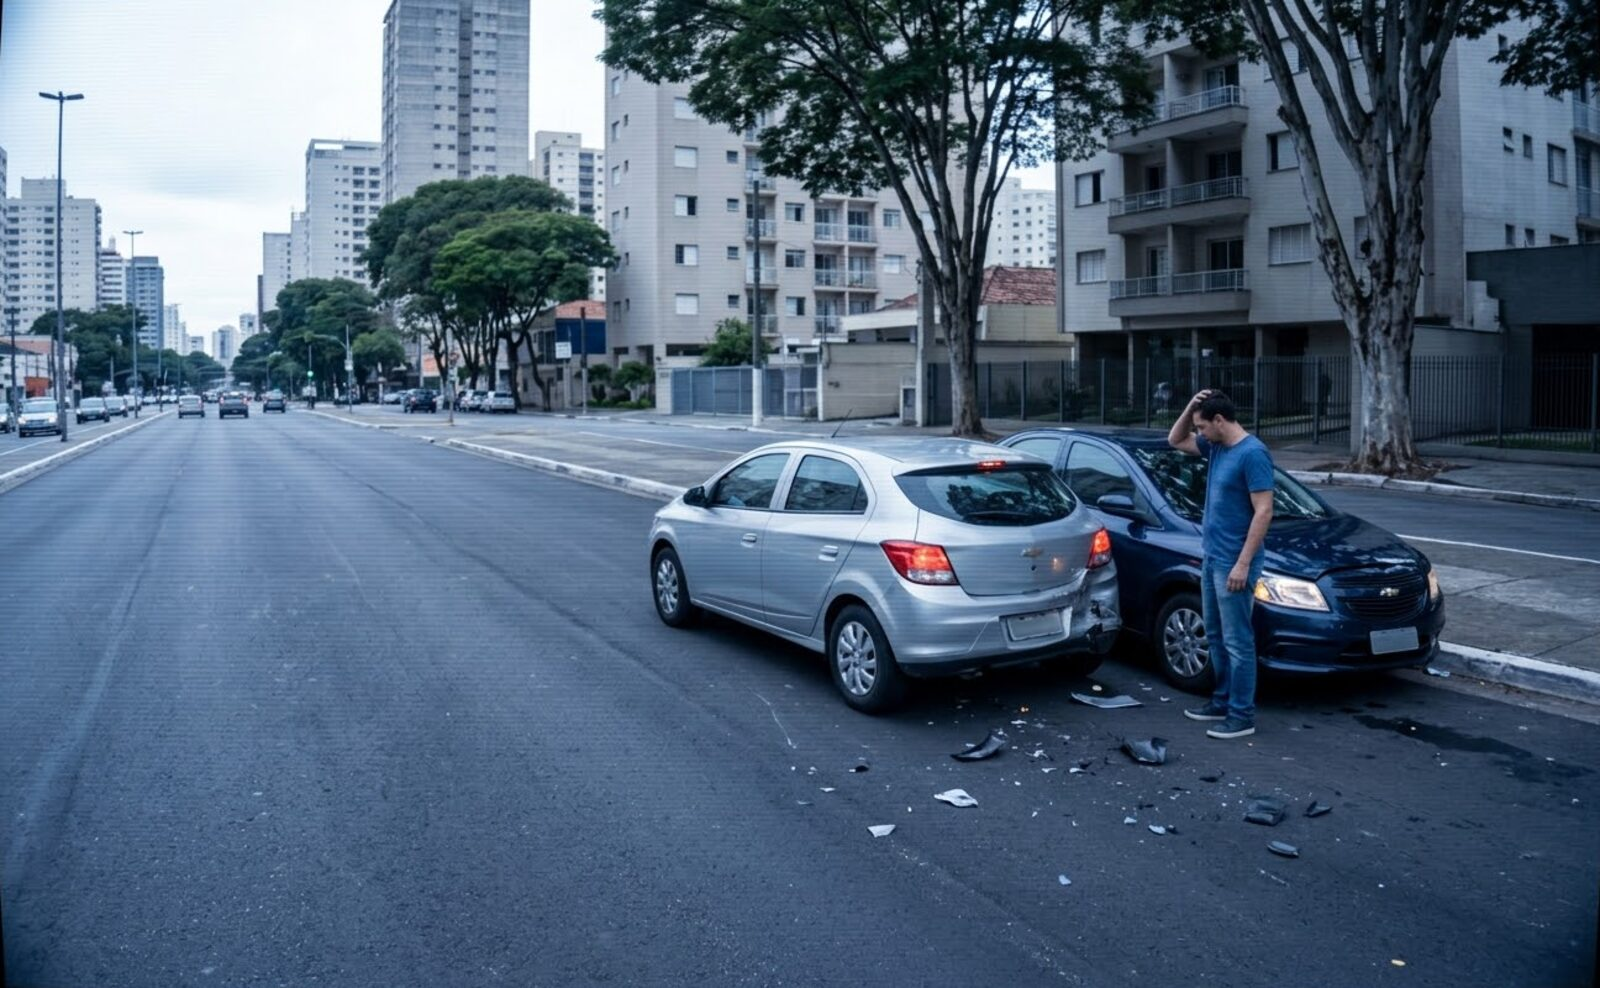
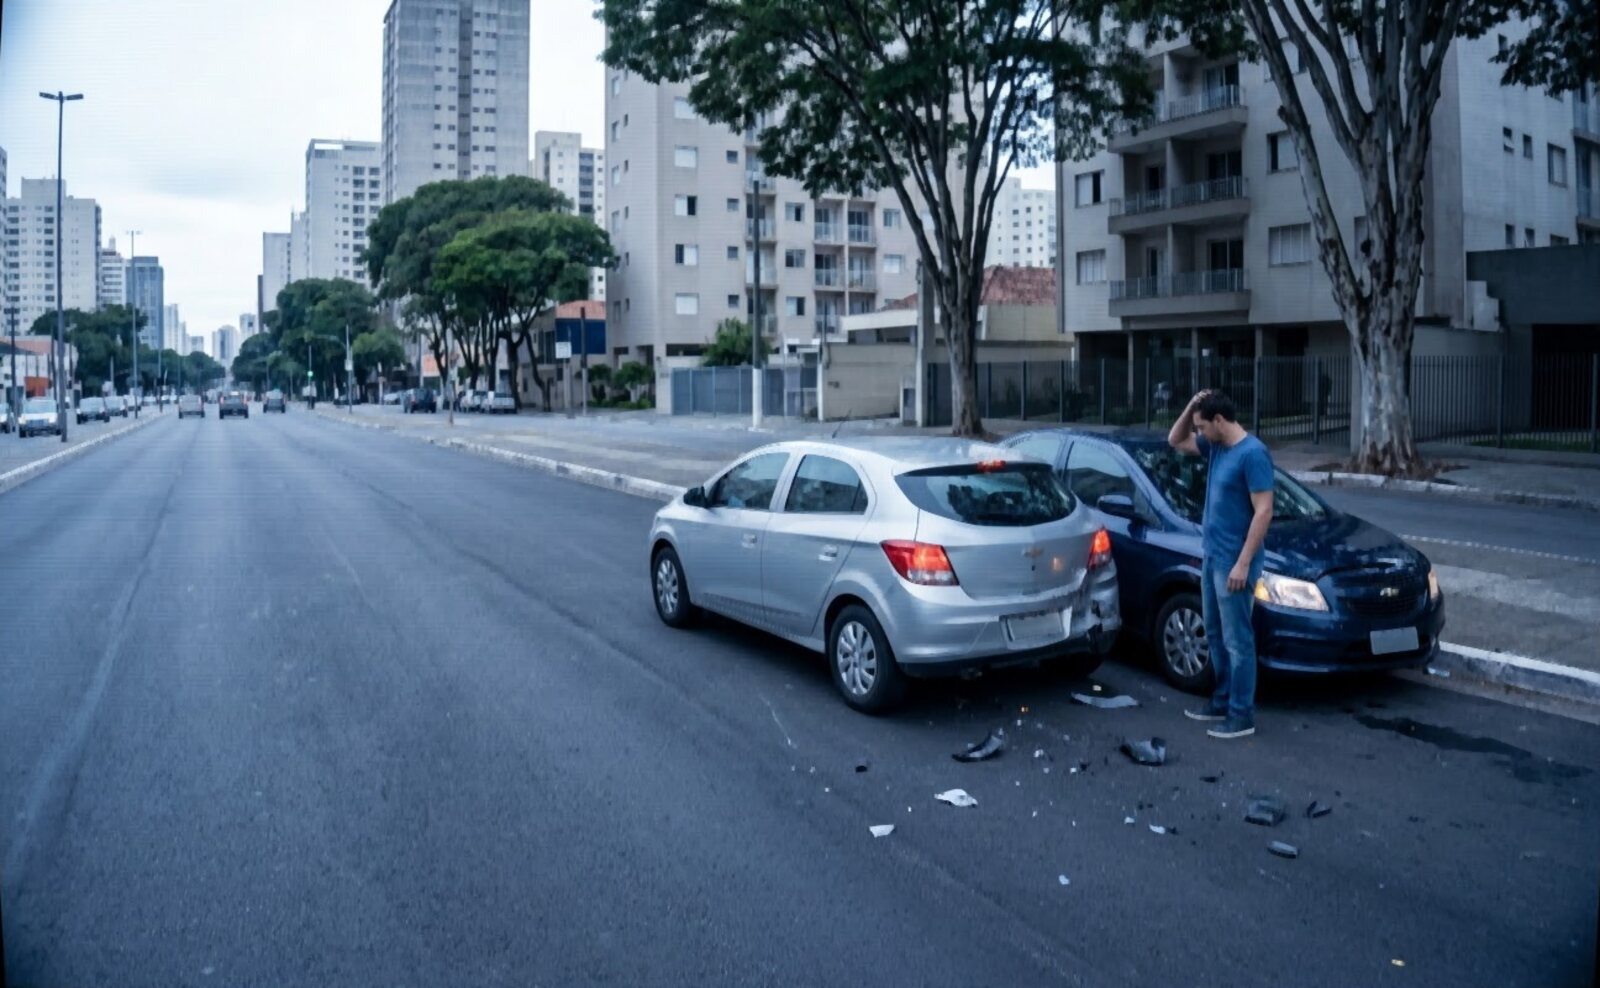
Sobre: sem REC, sem aviso de IA e sem aspecto de câmera nas fotos (#14)
Claude-Session: https://claude.ai/code/session_01NbZdAJxREaHUiLSeW6hUoJ

diff --git a/sobre.html b/sobre.html
@@ -99,10 +99,8 @@
     <div class="story-list">
       <article class="story story--cam" id="automovel" data-depois="img/sobre/automovel-batida-depois.jpg" data-par-alt="Os dois motoristas conversando com calma ao lado dos carros, com o guincho e a seguradora a caminho">
         <div class="story-media">
-          <img src="img/sobre/automovel-batida.jpg" alt="Câmera de rua em uma avenida de São Paulo registrando uma batida entre dois carros, com o motorista levando a mão à cabeça" width="1600" height="1000" loading="lazy" onerror="this.closest('.story').classList.add('no-photo')">
-          <span class="story-rec" aria-hidden="true"><i></i>REC 08:14 · São Paulo, SP</span>
+          <img src="img/sobre/automovel-batida.jpg" alt="Avenida de São Paulo com uma batida entre dois carros, com o motorista levando a mão à cabeça" width="1600" height="1000" loading="lazy" onerror="this.closest('.story').classList.add('no-photo')">
           <p class="story-quote"><span class="story-quote-label">Antes do imprevisto</span>“Eu ia só até a esquina.”</p>
-          <span class="story-credit">Imagem ilustrativa gerada por IA</span>
         </div>
         <div class="story-body">
           <p class="sec-eyebrow">Seguro de Automóvel</p>
@@ -130,7 +128,6 @@
             <span class="compare-handle" aria-hidden="true"><i></i></span>
             <input class="compare-range" type="range" min="0" max="100" value="50" aria-label="Arraste para comparar a situação sem seguro e com seguro">
           </div>
-          <span class="story-credit">Imagem ilustrativa gerada por IA</span>
         </div>
         <div class="story-body">
           <p class="sec-eyebrow">Seguro de Automóvel</p>
@@ -150,10 +147,8 @@
       </article>
 <article class="story story--cam" data-depois="img/sobre/automovel-roubo-depois.jpg" data-par-alt="De manhã, a pessoa registrando o boletim de ocorrência com apoio, ao lado do local do furto">
         <div class="story-media">
-          <img src="img/sobre/automovel-roubo.jpg" alt="Câmera de segurança em uma rua de São Paulo à noite registrando a tentativa de furto de um carro" width="1600" height="1000" loading="lazy" onerror="this.closest('.story').classList.add('no-photo')">
-          <span class="story-rec" aria-hidden="true"><i></i>REC 23:47 · São Paulo, SP</span>
+          <img src="img/sobre/automovel-roubo.jpg" alt="Rua de São Paulo à noite com uma pessoa tentando abrir um carro estacionado" width="1600" height="1000" loading="lazy" onerror="this.closest('.story').classList.add('no-photo')">
           <p class="story-quote"><span class="story-quote-label">Antes do imprevisto</span>“Deixei só um minutinho.”</p>
-          <span class="story-credit">Imagem ilustrativa gerada por IA</span>
         </div>
         <div class="story-body">
           <p class="sec-eyebrow">Seguro de Automóvel</p>
@@ -173,10 +168,8 @@
       </article>
 <article class="story story--cam" data-depois="img/sobre/alagamento-depois.jpg" data-par-alt="O guincho retirando o carro da rua alagada, com o motorista aliviado ao lado">
         <div class="story-media">
-          <img src="img/sobre/alagamento.jpg" alt="Câmera de rua registrando uma rua alagada de dia, com um carro parado na água e o motorista levando a mão à cabeça" width="1600" height="1000" loading="lazy" onerror="this.closest('.story').classList.add('no-photo')">
-          <span class="story-rec" aria-hidden="true"><i></i>REC 14:07 · São Paulo, SP</span>
+          <img src="img/sobre/alagamento.jpg" alt="Rua alagada de dia, com um carro parado na água e o motorista levando a mão à cabeça" width="1600" height="1000" loading="lazy" onerror="this.closest('.story').classList.add('no-photo')">
           <p class="story-quote"><span class="story-quote-label">Antes do imprevisto</span>“Essa rua nunca alagou.”</p>
-          <span class="story-credit">Imagem ilustrativa gerada por IA</span>
         </div>
         <div class="story-body">
           <p class="sec-eyebrow">Seguro de Automóvel</p>
@@ -197,9 +190,7 @@
       <article class="story story--cam" id="saude" data-depois="img/sobre/saude-depois.jpg" data-par-alt="Familiar mais tranquilo na recepção do hospital, com o atendimento já em andamento">
         <div class="story-media">
           <img src="img/sobre/saude.jpg" alt="Entrada de emergência de um hospital ao entardecer, com socorristas levando uma maca e um familiar preocupado" width="1600" height="1000" loading="lazy" onerror="this.closest('.story').classList.add('no-photo')">
-          <span class="story-rec" aria-hidden="true"><i></i>REC 17:32 · São Paulo, SP</span>
           <p class="story-quote"><span class="story-quote-label">Antes do imprevisto</span>“Eu nunca fico doente.”</p>
-          <span class="story-credit">Imagem ilustrativa gerada por IA</span>
         </div>
         <div class="story-body">
           <p class="sec-eyebrow">Planos de Saúde</p>
@@ -220,9 +211,7 @@
       <article class="story story--cam" id="residencial" data-depois="img/sobre/residencial-depois.jpg" data-par-alt="Casa com o conserto em andamento e o casal aliviado conversando com um profissional">
         <div class="story-media">
           <img src="img/sobre/residencial.jpg" alt="Casal na porta de casa, ao anoitecer, olhando para cima depois que um temporal derrubou uma árvore na frente do imóvel" width="1600" height="1000" loading="lazy" onerror="this.closest('.story').classList.add('no-photo')">
-          <span class="story-rec" aria-hidden="true"><i></i>REC 18:40 · São Paulo, SP</span>
           <p class="story-quote"><span class="story-quote-label">Antes do imprevisto</span>“Aqui nunca acontece nada.”</p>
-          <span class="story-credit">Imagem ilustrativa gerada por IA</span>
         </div>
         <div class="story-body">
           <p class="sec-eyebrow">Seguro Residencial</p>
@@ -244,7 +233,6 @@
         <div class="story-media">
           <img src="img/sobre/vida.jpg" alt="Casal no sofá de casa vendo documentos em um tablet com um corretor de seguros" width="1600" height="1000" loading="lazy" onerror="this.closest('.story').classList.add('no-photo')">
           <p class="story-quote"><span class="story-quote-label">Antes do imprevisto</span>“Isso é coisa pra depois.”</p>
-          <span class="story-credit">Imagem ilustrativa gerada por IA</span>
         </div>
         <div class="story-body">
           <p class="sec-eyebrow">Seguro de Vida</p>
@@ -265,9 +253,7 @@
       <article class="story story--cam" id="empresarial" data-depois="img/sobre/empresarial-depois.jpg" data-par-alt="O dono da padaria atendendo clientes com a porta de vidro já reposta">
         <div class="story-media">
           <img src="img/sobre/empresarial.jpg" alt="Dono de uma padaria de bairro, de manhã cedo, com uma vassoura diante da porta de vidro quebrada" width="1600" height="1000" loading="lazy" onerror="this.closest('.story').classList.add('no-photo')">
-          <span class="story-rec" aria-hidden="true"><i></i>REC 06:05 · São Paulo, SP</span>
           <p class="story-quote"><span class="story-quote-label">Antes do imprevisto</span>“A loja nunca teve problema.”</p>
-          <span class="story-credit">Imagem ilustrativa gerada por IA</span>
         </div>
         <div class="story-body">
           <p class="sec-eyebrow">Seguro Empresarial</p>

diff --git a/site.js b/site.js
@@ -22,7 +22,7 @@
     /* Recursos visuais da página Sobre. Troque true por false pra desligar
        qualquer um deles, sem apagar nada. */
     recursos: {
-      camera:      true,  /* marca "REC" e efeito de câmera de segurança nas fotos */
+      camera:      false, /* marca "REC" e efeito de câmera de segurança nas fotos (desligado) */
       frases:      true,  /* balão com a frase de quem achou que não ia precisar */
       antesDepois: true   /* comparador "sem seguro" x "com seguro" */
     }
